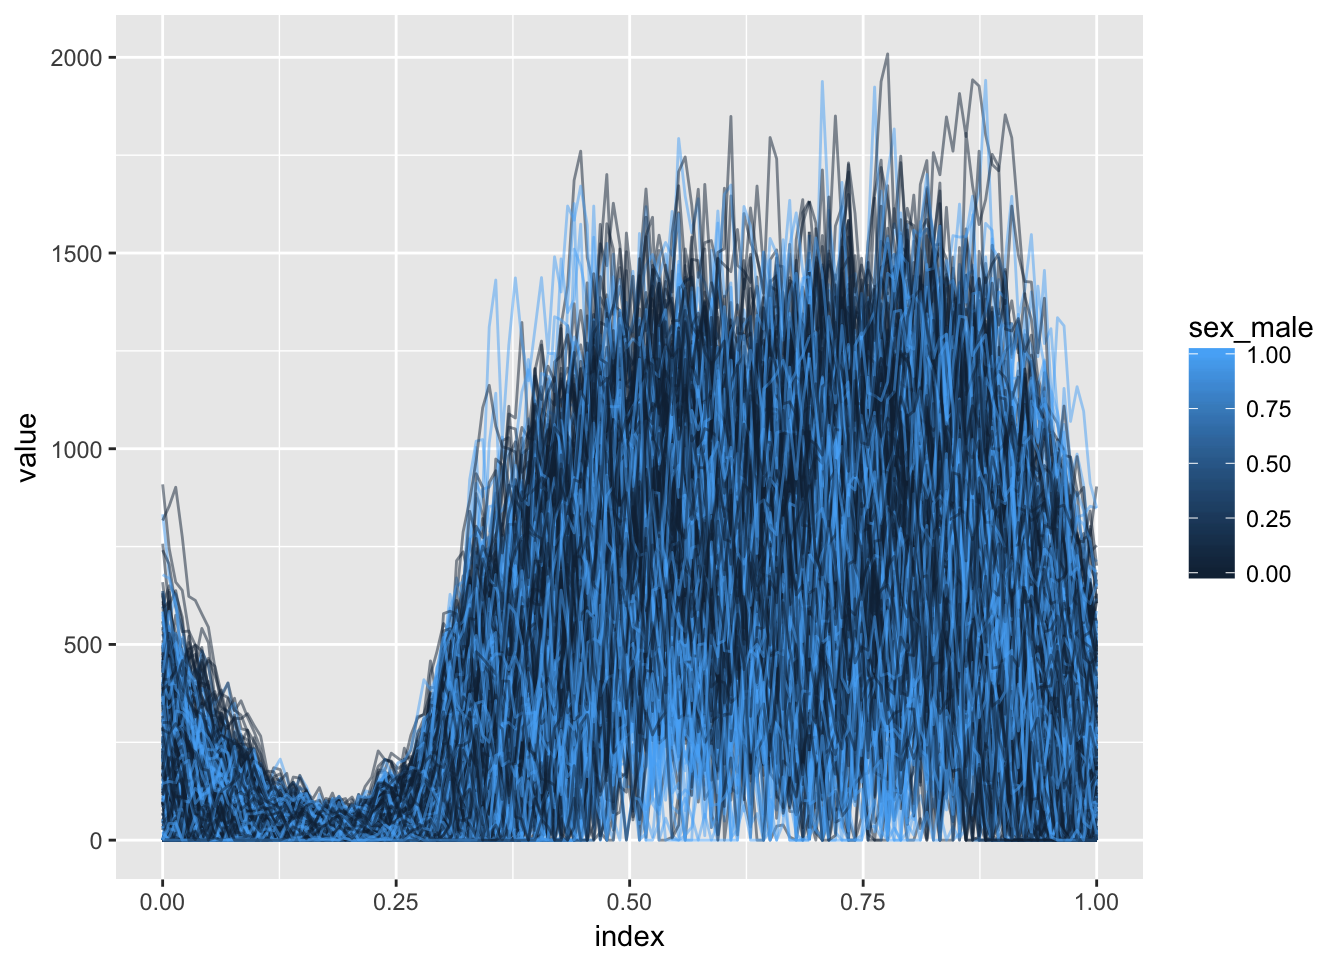
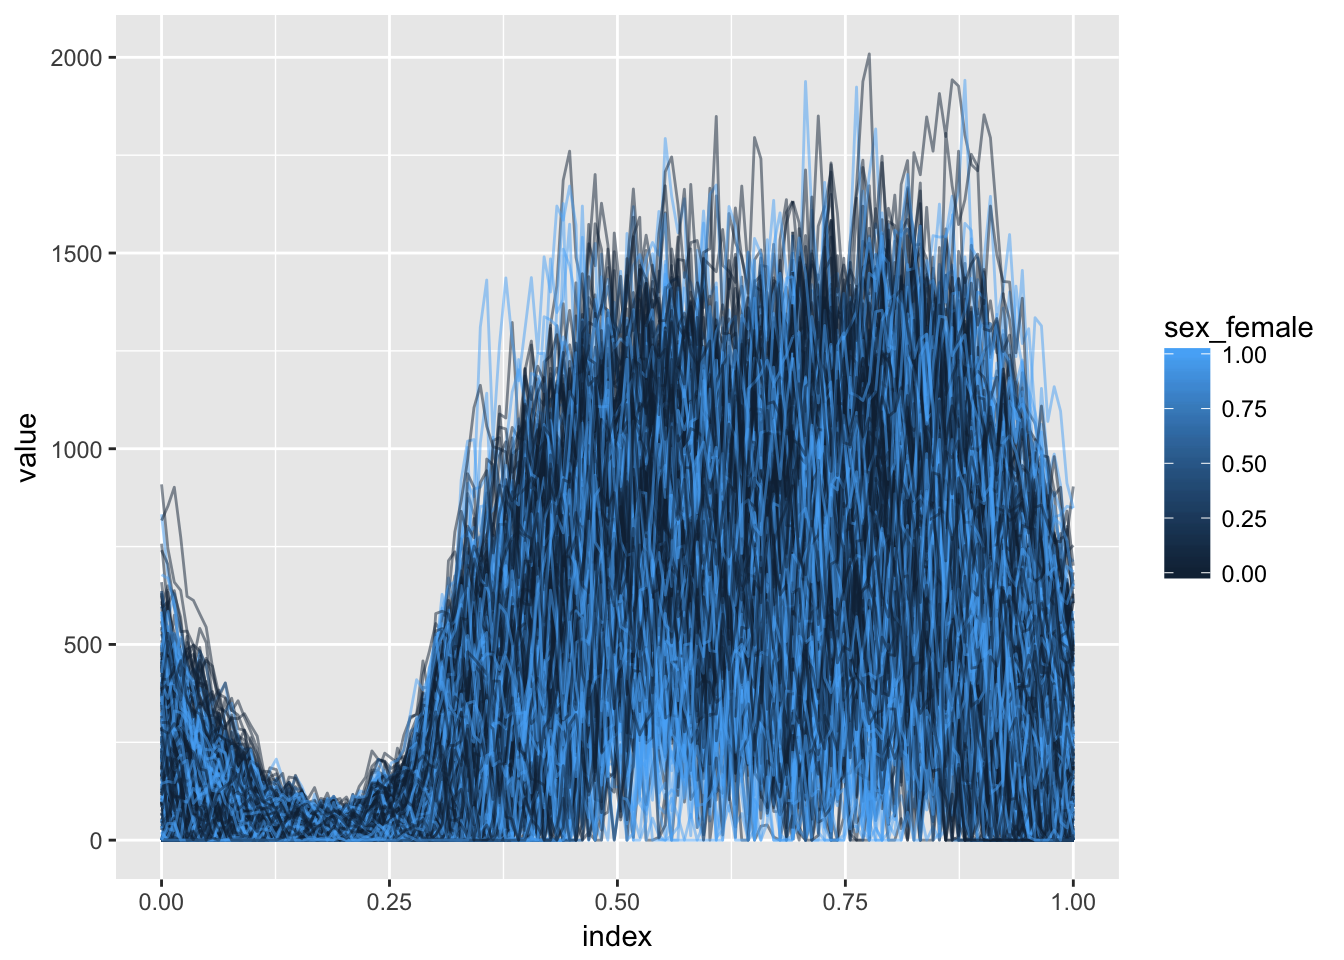
fixing coding issue in Activity data

diff --git a/shortcourse_fosr.html b/shortcourse_fosr.html
@@ -384,8 +384,8 @@ library(refund.shiny)</code></pre>
 <pre class="r"><code>load(&quot;./DataCode/Activity.RDA&quot;)
 
 as_refundObj(accel) %&gt;% 
-    left_join(dplyr::select(covariate_data, id, sex_male)) %&gt;%
-    ggplot(aes(x = index, y = value, group = id, color = sex_male)) + geom_path(alpha = .5)
+    left_join(dplyr::select(covariate_data, id, sex_female)) %&gt;%
+    ggplot(aes(x = index, y = value, group = id, color = sex_female)) + geom_path(alpha = .5)
 ## Joining, by = &quot;id&quot;</code></pre>
 <p><img src="shortcourse_fosr_files/figure-html/Accel_explore-1.png" width="672" /></p>
 <div id="methods-for-variable-selection" class="section level2">
@@ -399,7 +399,7 @@ as_refundObj(accel) %&gt;%
 <pre class="r"><code>temp_df = covariate_data
 temp_df$accel = accel
 
-fit_unpenalized = bayes_fosr(accel ~ season_warm + sex_male + BMIZ + TV_g2hr + video_g1hr +
+fit_unpenalized = bayes_fosr(accel ~ season_warm + sex_female + BMIZ + TV_g2hr + video_g1hr +
                                                             mom_work_yes + asthma_yes + child_age + mom_age + educ_mom + num_rooms + 
                                                             mom_born_US + tricep + subscap + skinfold, data = temp_df)
 ## Beginning Algorithm 

diff --git a/index.html b/index.html
@@ -232,7 +232,7 @@ $(document).ready(function () {
 
 
 <p>The second <a href="http://www.est.uc3m.es/iwafda2/">International Workshop on Advances in Functional Data Analysis</a> will be held March 23-24, 2017, in Madrid. This workshop co-organized by the Spanish Society of Statistics and Operations Research and the Instituto Flores de Lemus (UC3M); M. Carmen Aguilera Morillo (Universidad Carlos III de Madrid) and Andrés M. Alonso Fernández (Director del Instituto Flores de Lemus, Universidad Carlos III de Madrid) make up the organizing committee.</p>
-<p>This page contains materials by <a href="http://jeffgoldsmith.com">Jeff Goldsmith</a> for the plenary session, titled “Kinematic Data in Motor Control Experiments”, and for the short course on variable selection in functional regression.</p>
+<p>This page contains materials by <a href="http://jeffgoldsmith.com">Jeff Goldsmith</a> for the plenary session, titled “Modeling Motor Learning Using Heteroskedastic FPCA”, and for the short course on variable selection in functional regression.</p>
 
 
 
